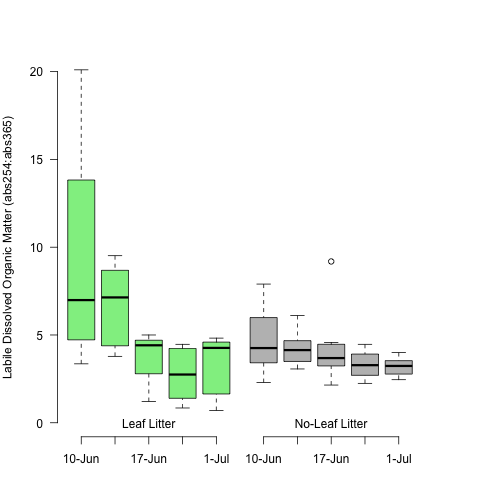
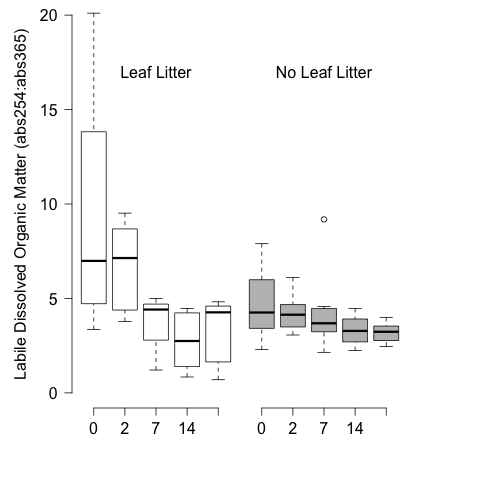
fixed spec figure for SFS poster

diff --git a/lab_notebook/analysis/CPOM_Flux_Exp_spec_analysis.md b/lab_notebook/analysis/CPOM_Flux_Exp_spec_analysis.md
@@ -61,24 +61,27 @@ This code it to analyze the spec scan data from the treatments with and without 
     text(3, 20, "Leaf + Ambient")
     plot(ratio254 ~ day, data = r254.t, subset = CPOM == "no" & nutrient == "yes", ylim = c(0, 20), col = "dark red", axes = F, xlab = " ", ylab = " ")
     axis(1, at = c(1, 2, 3, 4, 5), labels = c("10-Jun", "12-Jun", "17-Jun", "24-Jun", "1-Jul"))
- #   axis(2,  las = 2)
+  #   axis(2,  las = 2)
     text(3, 20, "No-Leaf + Enriched")
     plot(ratio254 ~ day, data = r254.t, subset = CPOM == "no" & nutrient == "no", ylim = c(0, 20), col = "dark red", axes = F, xlab = " ", ylab = " ")
     axis(1, at = c(1, 2, 3, 4, 5), labels = c("10-Jun", "12-Jun", "17-Jun", "24-Jun", "1-Jul"))
-  #  axis(2,  las = 2)
+    #  axis(2,  las = 2)
     text(3, 20, "No-Leaf + Ambient")
 
 
-    par(mfcol = c(1, 2), mar = c(3, 4, 4, 0))
-    plot(ratio254 ~ day, data = r254.t, subset = CPOM == "yes", ylim = c(0, 20), col = "light green", axes = F, xlab = " ", ylab = "Labile Dissolved Organic Matter (abs254:abs365)")
-    axis(1, at = c(1, 2, 3, 4, 5), labels = c("10-Jun", "12-Jun", "17-Jun", "24-Jun", "1-Jul"))
+    par(mfcol = c(1, 2), mar = c(5, 5, 0, 0 ))
+    plot(ratio254 ~ day, data = r254.t, subset = CPOM == "yes", ylim = c(0, 20), col = "white", axes = F, xlab = " ", ylab = "Labile Dissolved Organic Matter (abs254:abs365)")
+    axis(1, at = c(1, 2, 3, 4, 5), labels = c("0", "2", "7", "14", "21"))
     axis(2,  las = 2)
-    text(3, 0, "Leaf Litter")
-    par(mar = c(3, 0, 4, 4))
+    text(3, 17, "Leaf Litter")
+    par(mar = c(5, 0, 0, 5))
     plot(ratio254 ~ day, data = r254.t, subset = CPOM == "no", ylim = c(0, 20), col = 8, axes = F, xlab = " ", ylab = " ")
-    axis(1, at = c(1, 2, 3, 4, 5), labels = c("10-Jun", "12-Jun", "17-Jun", "24-Jun", "1-Jul"))
-#    axis(2,  las = 2)
-    text(3, 0, "No-Leaf Litter")
+    axis(1, at = c(1, 2, 3, 4, 5), labels = c("0", "2", "7", "14", "21") )
+    #    axis#(2,  las = 2)
+    text(3, 17, "No Leaf Litter")
+    text(-2, -2, "Days Incubated")
+    
+
     dev.copy(png, "./output/plots/cpom_flux_ratio254_by_day_CPOM.png")
     dev.off()
 
